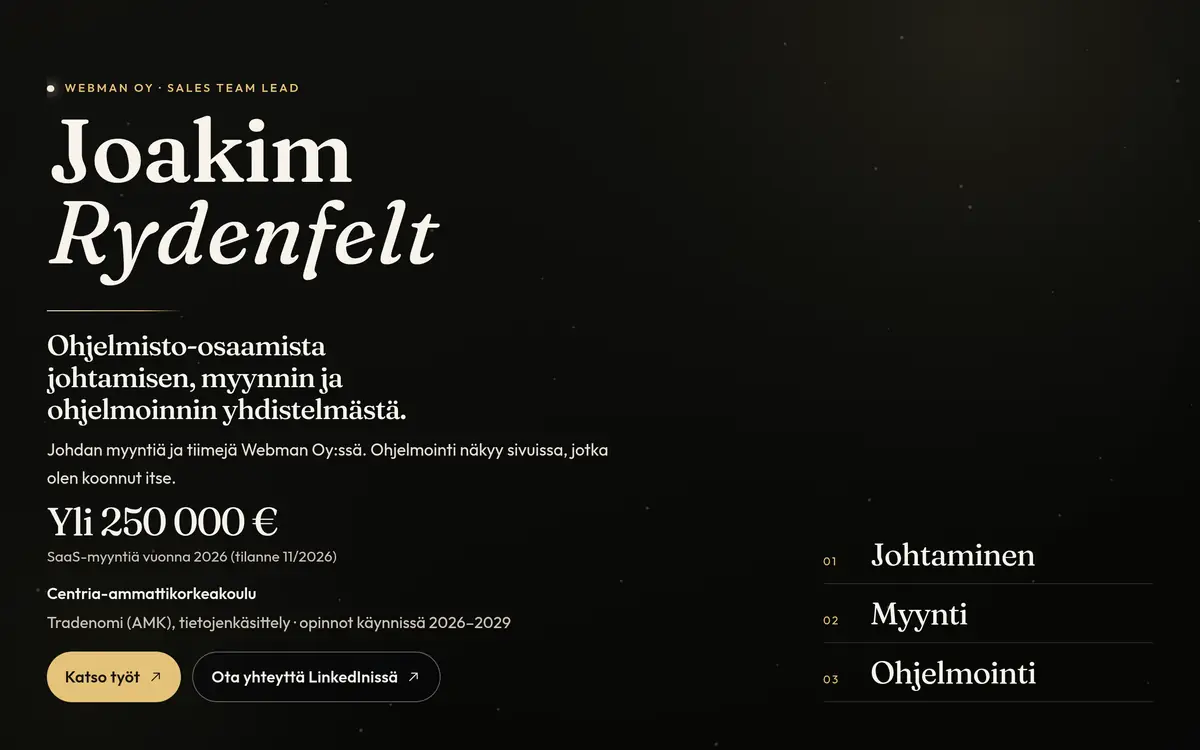
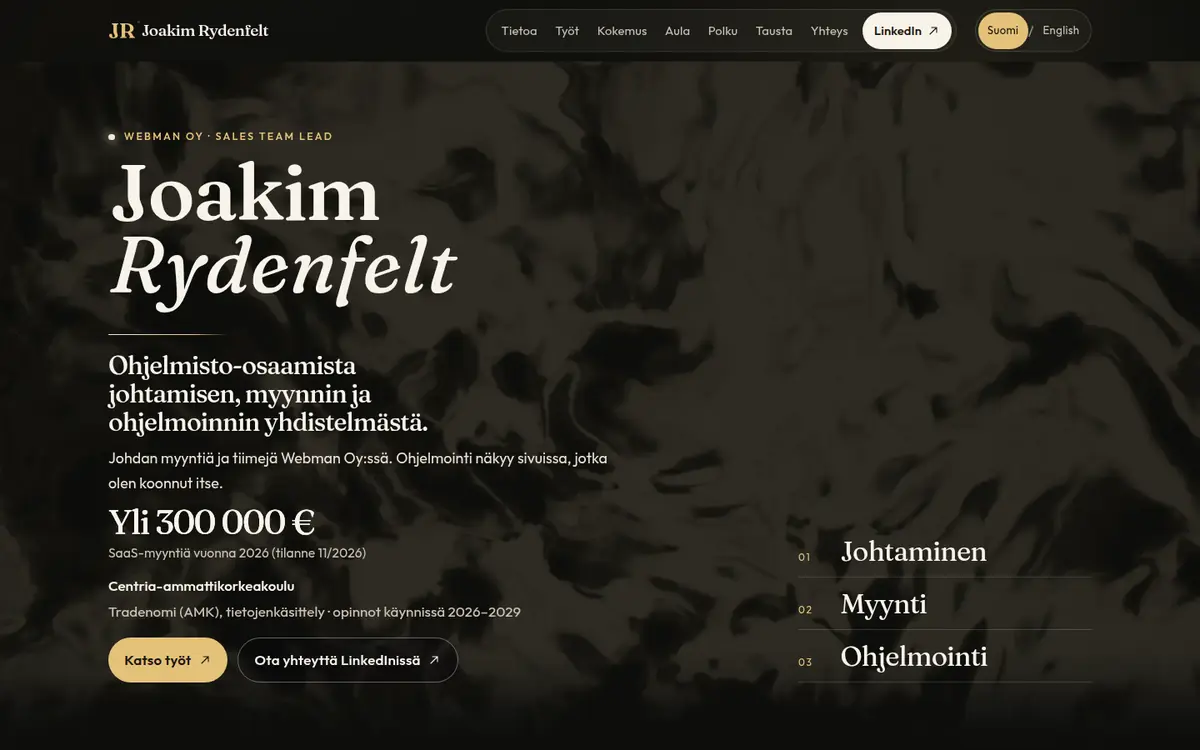
fix: set the SaaS sales figure to 300 000 €

diff --git a/index.html b/index.html
@@ -50,8 +50,8 @@
     <noscript>
       <div class="kehys ilman-js">
         <h1>Joakim Rydenfelt</h1>
-        <p lang="fi">Ohjelmisto-osaamista johtamisen, myynnin ja ohjelmoinnin yhdistelmästä. Yli 250&nbsp;000&nbsp;€ SaaS-myyntiä vuonna 2026 (tilanne 11/2026). Centria-ammattikorkeakoulu, tradenomi (AMK), tietojenkäsittely, opinnot käynnissä 2026–2029.</p>
-        <p lang="en">Software expertise from the combination of leadership, sales and programming. Over €250,000 in SaaS sales in 2026 (as of November 2026). Centria University of Applied Sciences, BBA in Business Information Technology, studies in progress, 2026–2029.</p>
+        <p lang="fi">Ohjelmisto-osaamista johtamisen, myynnin ja ohjelmoinnin yhdistelmästä. Yli 300&nbsp;000&nbsp;€ SaaS-myyntiä vuonna 2026 (tilanne 11/2026). Centria-ammattikorkeakoulu, tradenomi (AMK), tietojenkäsittely, opinnot käynnissä 2026–2029.</p>
+        <p lang="en">Software expertise from the combination of leadership, sales and programming. Over €300,000 in SaaS sales in 2026 (as of November 2026). Centria University of Applied Sciences, BBA in Business Information Technology, studies in progress, 2026–2029.</p>
         <p><a href="https://www.linkedin.com/in/joakim-rydenfelt">linkedin.com/in/joakim-rydenfelt</a></p>
         <p><a href="https://github.com/jokkewedsf">github.com/jokkewedsf</a></p>
         <h2 lang="fi">Toiminnanohjauksen havainnollistus</h2>

diff --git a/scripts/tarkista.js b/scripts/tarkista.js
@@ -110,10 +110,10 @@ if (!data) {
   const valilyonti = function (arvo) { return String(arvo).replace(/\u00A0/g, " "); };
   const fiLuku = valilyonti(kielet.fi.hero.luku + " " + kielet.fi.hero.lukuSelite);
   const enLuku = valilyonti(kielet.en.hero.luku + " " + kielet.en.hero.lukuSelite);
-  if (fiLuku !== "Yli 250 000 € SaaS-myyntiä vuonna 2026 (tilanne 11/2026)") fail("Suomen myyntiluku puuttuu");
+  if (fiLuku !== "Yli 300 000 € SaaS-myyntiä vuonna 2026 (tilanne 11/2026)") fail("Suomen myyntiluku puuttuu");
   if (!/\u00A0/.test(kielet.fi.hero.luku)) fail("Suomen luvusta puuttuu sitova välilyönti");
-  if (enLuku !== "Over €250,000 in SaaS sales in 2026 (as of November 2026)") fail("Englannin myyntiluku puuttuu");
-  if (kielet.fi.hero.summa !== 250000 || kielet.en.hero.summa !== 250000) fail("Myyntisumma puuttuu");
+  if (enLuku !== "Over €300,000 in SaaS sales in 2026 (as of November 2026)") fail("Englannin myyntiluku puuttuu");
+  if (kielet.fi.hero.summa !== 300000 || kielet.en.hero.summa !== 300000) fail("Myyntisumma puuttuu");
   if (!/Centria-ammattikorkeakoulu/.test(JSON.stringify(kielet.fi)) || !/Centria University of Applied Sciences/.test(JSON.stringify(kielet.en))) {
     fail("Centrian nimi puuttuu");
   }

diff --git a/js/sisalto.js b/js/sisalto.js
@@ -25,8 +25,8 @@ window.SIVUN_SISALTO = {
         otsikko: "Ohjelmisto-osaamista johtamisen, myynnin ja ohjelmoinnin yhdistelmästä.",
         ingressi:
           "Johdan myyntiä ja tiimejä Webman Oy:ssä. Ohjelmointi näkyy sivuissa, jotka olen koonnut itse.",
-        summa: 250000,
-        luku: "Yli 250\u00A0000\u00A0€",
+        summa: 300000,
+        luku: "Yli 300\u00A0000\u00A0€",
         lukuSelite: "SaaS-myyntiä vuonna 2026 (tilanne 11/2026)",
         opinnotNimi: "Centria-ammattikorkeakoulu",
         opinnotRivi: "Tradenomi (AMK), tietojenkäsittely · opinnot käynnissä 2026–2029",
@@ -439,8 +439,8 @@ window.SIVUN_SISALTO = {
         otsikko: "Software expertise from the combination of leadership, sales and programming.",
         ingressi:
           "I lead sales and teams at Webman Oy. The programming shows up in the pages I assembled myself.",
-        summa: 250000,
-        luku: "Over €250,000",
+        summa: 300000,
+        luku: "Over €300,000",
         lukuSelite: "in SaaS sales in 2026 (as of November 2026)",
         opinnotNimi: "Centria University of Applied Sciences",
         opinnotRivi: "BBA in Business Information Technology · studies in progress, 2026–2029",
